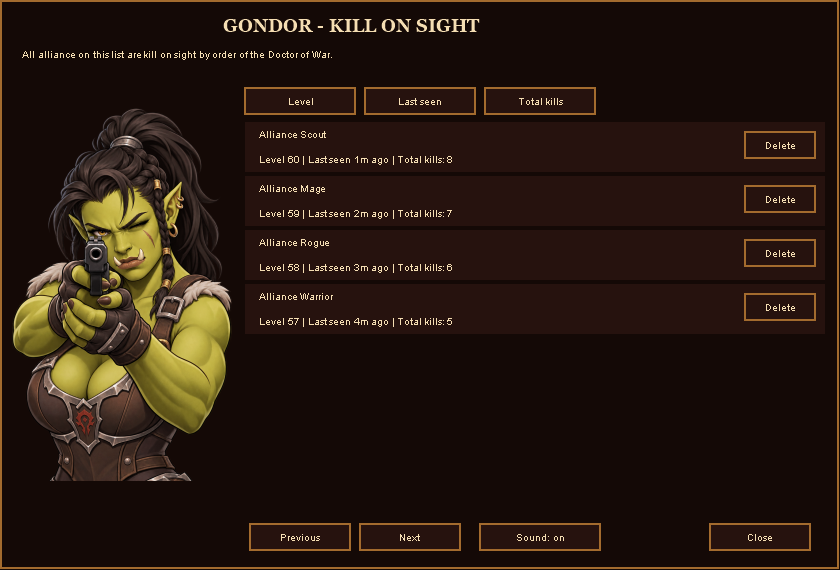
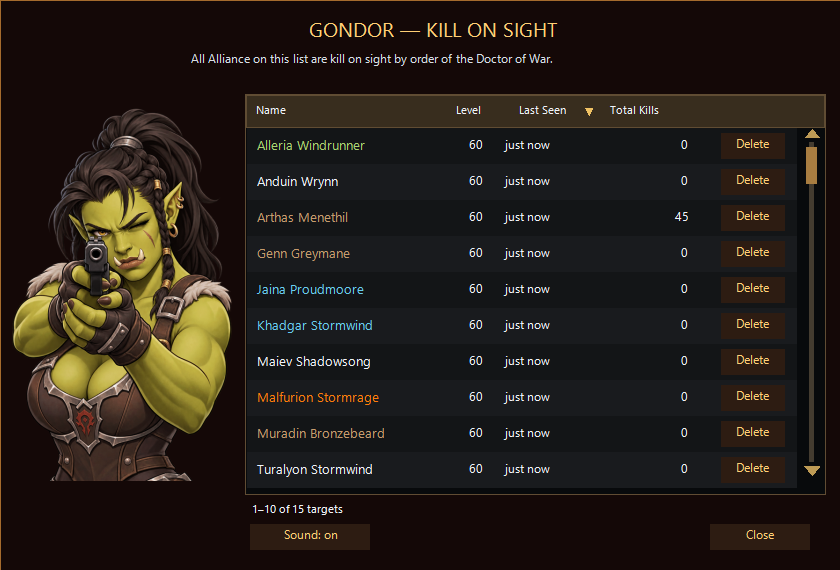
Release 0.9.14 with clearer KoS tables and movable help popups

diff --git a/docs/index.html b/docs/index.html
@@ -10,8 +10,8 @@
 <link rel="preconnect" href="https://fonts.googleapis.com">
 <link rel="preconnect" href="https://fonts.gstatic.com" crossorigin>
 <link rel="stylesheet" href="https://fonts.googleapis.com/css2?family=Barlow+Condensed:wght@600;700;800&amp;family=Barlow:wght@400;500;600;700&amp;display=swap">
-<link rel="stylesheet" href="style.css?v=6">
-<script src="script.js?v=6" defer>
+<link rel="stylesheet" href="style.css?v=7">
+<script src="script.js?v=7" defer>
 </script>
 </head>
 <body>
@@ -41,11 +41,11 @@
 </p>
 <p class="lead">Collect cards from honorable kills. Rally your guildmates. Earn points for showing up when the fight finds them.</p>
 <div class="actions">
-<div class="download-action"><a class="button" href="https://github.com/GM-King/Gondor_pvp/releases/download/v0.9.13-beta/Gondor_PvP.zip">Download beta <span aria-hidden="true">↓</span>
-</a><p class="meta updated">Last updated <time id="last-updated" datetime="2026-11-11T21:07:01+11:00">2026-11-11</time></p></div>
+<div class="download-action"><a class="button" href="https://github.com/GM-King/Gondor_pvp/releases/download/v0.9.14-beta/Gondor_PvP.zip">Download beta <span aria-hidden="true">↓</span>
+</a><p class="meta updated">Last updated <time id="last-updated" datetime="2026-11-11T22:01:19+00:00">2026-11-11</time></p></div>
 <a href="#guide">How to play ↘</a>
 </div>
-<p class="meta">WoW Forever · 0.9.13 beta · 78.1 MiB</p>
+<p class="meta">WoW Forever · 0.9.14 beta · 78.1 MiB</p>
 
 </div>
 <div class="sergeant-stage">
@@ -136,13 +136,13 @@
 <div>
 <span class="step">03 / ANSWER THE CALL</span>
 <h3>See the offer.<br>Be the backup.</h3>
-<p>Enable <strong>Incoming Kill Share offers</strong> in Settings. Each popup shows who needs help, their requested location, approximate straight-line distance in yards, and potential points. Your own requests are excluded. If the locations cannot be compared, it shows Distance unavailable.</p>
+<p>Enable <strong>Incoming Kill Share offers</strong> in Settings. <strong>Drag the popup title bar</strong> to move it. It keeps that position while the addon is loaded. Each popup shows who needs help, their requested location, approximate straight-line distance in yards, and potential points. Your own requests are excluded. If the locations cannot be compared, it shows Distance unavailable.</p>
 <p>Select <strong>Accept</strong> and follow the requester’s map pin. You can help one accepted fare at a time.</p>
 <aside class="note">Offer too quick? In Settings, adjust its expiry from <strong>5 to 60 seconds</strong>. The default is 60 seconds.</aside>
 </div>
 <figure>
 <a class="offer-preview" href="assets/offer.png" data-preview>
-<img src="assets/offer.png" width="370" height="305" loading="lazy" alt="PvP help request for Thrall in Durotar, showing yardage and quoting 15 points, with Accept and Dismiss buttons">
+<img src="assets/offer.png" width="370" height="305" loading="lazy" alt="PvP help request for Thrall in Durotar, showing location, distance availability and a 15-point reward, with Accept and Dismiss buttons">
 </a>
 <figcaption>Offline layout illustration <span>Incoming offer · Click to enlarge ↗</span>
 </figcaption>
@@ -161,7 +161,7 @@
 <section class="guide wrap" id="choices" aria-labelledby="choices-title">
 <div class="section-heading"><div><p class="eyebrow">CHOOSE YOUR REINFORCEMENTS</p><h2 id="choices-title">A muster. Or a beacon.</h2></div><p>Two ways to call.<br>One guild at your back.</p></div>
 <article class="guide-row"><div><span class="step">ZONE / WORLD</span><h3>Pick the reach<br>of your call.</h3>
-<p>Left-click the <strong>orc minimap button</strong>, choose <strong>Kill Share → Request help</strong>, or type <code>/gpvp request</code>. The choice menu opens in the upper-middle; its <strong>X</strong> or Escape closes it without sending anything.</p>
+<p>Left-click the <strong>orc minimap button</strong>, choose <strong>Kill Share → Request help</strong>, or type <code>/gpvp request</code>. The choice menu opens in the upper-middle. <strong>Drag its title bar</strong> to move it; its <strong>X</strong> or Escape closes it without sending anything.</p>
 <p><strong>Muster Rohirrim (Zone)</strong> sends private addon offers only to online guildmates in your zone, including its subzones. You are excluded, and recipients must still be in that zone to see or accept the offer. If their zone cannot be verified, the addon never widens your call to World.</p>
 <p><strong>Light Beacons (World)</strong> sends offers throughout the guild, except to yourself. Party and raid members are included. Both options respect saved incoming-offer opt-outs and post an announcement in your configured channel, normally <code>gcfrpvp</code>.</p>
 <aside class="note">After a confirmed or uncertain PvP death, the same choices appear with <strong>Decline</strong>. Closing, declining or waiting 15 seconds sends nothing. An accepted choice uses the location captured at death. Updated addons are required for Zone offers; existing cooldowns and instance restrictions still apply.</aside></div>
@@ -183,25 +183,33 @@
 <h3>Remember the name.<br>Recognise the threat.</h3>
 <p>Open <strong>Kill on Sight</strong> in the binder or type <code>/gpvp kos</code>. All Gondor Calls for Raid members with the updated addon share a list of up to <strong>100 Alliance targets</strong>. Changes sync between online guildmates, with catch-up when they return.</p>
 <p><strong>Right-click an Alliance character portrait → Gondor KoS</strong> to add them. Give a reason of up to <strong>100 characters</strong>; the original reason stays read-only. A crosshair marks listed target and focus portraits, including Z-Perl frames.</p>
-<p>Click a name to see the <strong>reason, who added them, race, class, last-seen level and a kill breakdown by guild member</strong>. Sort the list by <strong>Level, Last seen or Total kills</strong>; click again to reverse the order. Kill totals cover the current listing: a fresh addition resets the total, while Undo preserves it. Earned points remain intact. Older entries show unknown attributes until someone sees the target again.</p>
+<p>Click a name to see the <strong>reason, who added them, race, class, last-seen level and a kill breakdown by guild member</strong>. Sort the aligned <strong>Name, Level, Last Seen and Total Kills</strong> columns; click again to reverse the order. Names use class colours, and the list has a draggable scrollbar. Kill totals cover the current listing: a fresh addition resets the total, while Undo preserves it. Earned points remain intact. Older entries show unknown attributes until someone sees the target again.</p>
 <p>Spot an identifiable, living target nearby in the open world and hear a <strong>local warning sound</strong>. Sightings are announced in <code>gcfrpvp</code>, limited to once per target every <strong>ten minutes</strong>. Each encountering member has their own sound warning and can turn it off in the KoS window.</p>
 <p>A verified killing blow by you or your pet earns <strong>5 PvP points</strong> and announces the kill in <code>gcfrpvp</code>. Each distinct later kill can earn another five. Alerts and rewards operate in the open world; if Forever hides the required kill evidence, no points are awarded.</p>
 <p><strong>Delete</strong> asks for confirmation and announces who removed the target in <code>gcfrpvp</code>. The deleting player has <strong>60 seconds to Undo</strong>, including across a reload. Restoring an entry preserves its original reason, contributor, details and sighting time, and announces the restoration. Undo needs a free list slot.</p>
 <aside class="note">Targets unseen by the guild for <strong>ten days</strong> are automatically removed. Automatic expiry is quiet and preserves earned points. Manual deletions can be undone using the popup or <strong>Undo deletes</strong>.</aside>
 </div>
-<figure><a href="assets/kos.png" data-preview><img src="assets/kos.png" width="840" height="570" loading="lazy" alt="Updated Kill on Sight list with separate sort buttons for level, last seen and total kills, and the orc artwork"></a><figcaption>Offline layout illustration <span>Shared KoS list · Click to enlarge ↗</span></figcaption>
+<figure><a href="assets/kos.png" data-preview><img src="assets/kos.png" width="840" height="570" loading="lazy" alt="Kill on Sight table with class-coloured names, Name, Level, Last Seen and Total Kills headings, scrollbar and original orc artwork"></a><figcaption>Offline layout illustration <span>Shared KoS list · Click to enlarge ↗</span></figcaption>
 </figure>
+</article>
+<article class="guide-row reverse">
+<div><span class="step">TARGET DETAILS / GUILD KILLS</span>
+<h3>Read the reason.<br>See who got the kill.</h3>
+<p>Click a target name to open a compact details card. The target's name uses their class colour, with race, class, level and last-seen information directly beneath it.</p>
+<p>A contrasting <strong>Reason</strong> panel and separate <strong>Added By</strong> heading make the original listing easy to read. The <strong>Guild Kill Breakdown</strong> shows labelled <strong>Guildmate</strong> and <strong>Kills</strong> columns, class-coloured guildmates when roster information is available, and a total above the table.</p>
+<p>Drag the table's scrollbar or use the mouse wheel to see more guildmates. Counts are ordered from most kills to fewest and cover this target's current listing.</p></div>
+<figure><a class="details-preview" href="assets/kos-details.png" data-preview><img src="assets/kos-details.png" width="500" height="548" loading="lazy" alt="Target details showing a contrasting Reason panel, Added By heading, Guild Kill Breakdown with Guildmate and Kills columns, class colours and scrollbar"></a><figcaption>Offline layout illustration <span>KoS target details · Click to enlarge ↗</span></figcaption></figure>
 </article>
 </section>
 <section class="beta wrap">
 <div>
-<p class="eyebrow">BETA 0.9.13</p>
+<p class="eyebrow">BETA 0.9.14</p>
 <h2>Still sharpening the axe.</h2>
 </div>
 <div>
 <p>Offline checks pass. Live-client gameplay verification is pending. Death detection, channel delivery, map pins, precise positioning and KoS killing-blow verification depend on the APIs available in Forever. Test these with guildmates before relying on rewards.</p>
 <div class="links">
-<a href="https://github.com/GM-King/Gondor_pvp/releases/tag/v0.9.13-beta">Release notes ↗</a>
+<a href="https://github.com/GM-King/Gondor_pvp/releases/tag/v0.9.14-beta">Release notes ↗</a>
 <a href="https://github.com/GM-King/Gondor_pvp/issues">Report an issue ↗</a>
 </div>
 </div>

diff --git a/docs/script.js b/docs/script.js
@@ -11,7 +11,7 @@
   }
   refresh();
   setInterval(refresh, 60000);
-  fetch('https://api.github.com/repos/GM-King/Gondor_pvp/releases/tags/v0.9.13-beta')
+  fetch('https://api.github.com/repos/GM-King/Gondor_pvp/releases/tags/v0.9.14-beta')
     .then(response => { if (!response.ok) throw new Error('Release unavailable'); return response.json(); })
     .then(release => {
       const published = Date.parse(release.published_at);

diff --git a/docs/style.css b/docs/style.css
@@ -611,3 +611,5 @@ nav { flex-wrap:wrap; justify-content:flex-end; column-gap:20px; row-gap:8px; }
 
 .download-action { display:flex; flex-direction:column; align-items:flex-start; }
 .download-action .updated { margin:10px 0 0; }
+
+.details-preview { max-width:500px; }

diff --git a/README.md b/README.md
@@ -6,7 +6,7 @@ A PvP card binder and guild help system for **Gondor Calls for Raid** on WoW For
 
 ## Download
 
-**[Download Gondor PvP 0.9.13 beta (78.1 MiB ZIP)](https://github.com/GM-King/Gondor_pvp/releases/download/v0.9.13-beta/Gondor_PvP.zip)**
+**[Download Gondor PvP 0.9.14 beta (78.1 MiB ZIP)](https://github.com/GM-King/Gondor_pvp/releases/download/v0.9.14-beta/Gondor_PvP.zip)**
 
 Visit the [Gondor PvP website](https://gm-king.github.io/Gondor_pvp/) for installation instructions and an overview.
 
@@ -90,7 +90,7 @@ Manual KoS removals announce the target and deleting member in `gcfrpvp`. The de
 
 ## KoS statistics and help audiences
 
-KoS rows show level, last seen, and total kills. Click those headings to sort; click again to reverse. Unknown levels stay last. The sort choice is saved per character. Click a target name for a scrollable guild-member kill breakdown. Verified killing blows count once, and pets credit their owners. Totals cover the current listing: removing or expiring and freshly adding a target resets the total; Undo restores it. Earned points remain intact. Older kill records use the listing creation time as their cutoff. New KoS kills announce once in gcfrpvp; synchronization and backup recovery stay silent.
+The KoS table has Name, Level, Last Seen, and Total Kills columns, class-coloured names, and a draggable scrollbar. Click a heading to sort; click again to reverse. Unknown levels stay last. The sort choice is saved per character. Click a target name for compact details and a separate scrollable Guildmate/Kills table. Guildmate names use roster class colours when available. Verified killing blows count once, and pets credit their owners. Totals cover the current listing: removing or expiring and freshly adding a target resets the total; Undo restores it. Earned points remain intact. Older kill records use the listing creation time as their cutoff. New KoS kills announce once in gcfrpvp; synchronization and backup recovery stay silent.
 
 Zone offers use private addon messages to online guildmates whose roster zone matches the request zone. Subzones share their containing zone. Recipients must still be in the zone when the offer appears or is accepted. Unknown zone or roster data never causes a World broadcast. Both choices still post the configured-channel announcement. World offers include party and raid members. Saved offer opt-outs and instance restrictions still apply. Updated addons are required for Zone offers and precise listing attribution.
 
